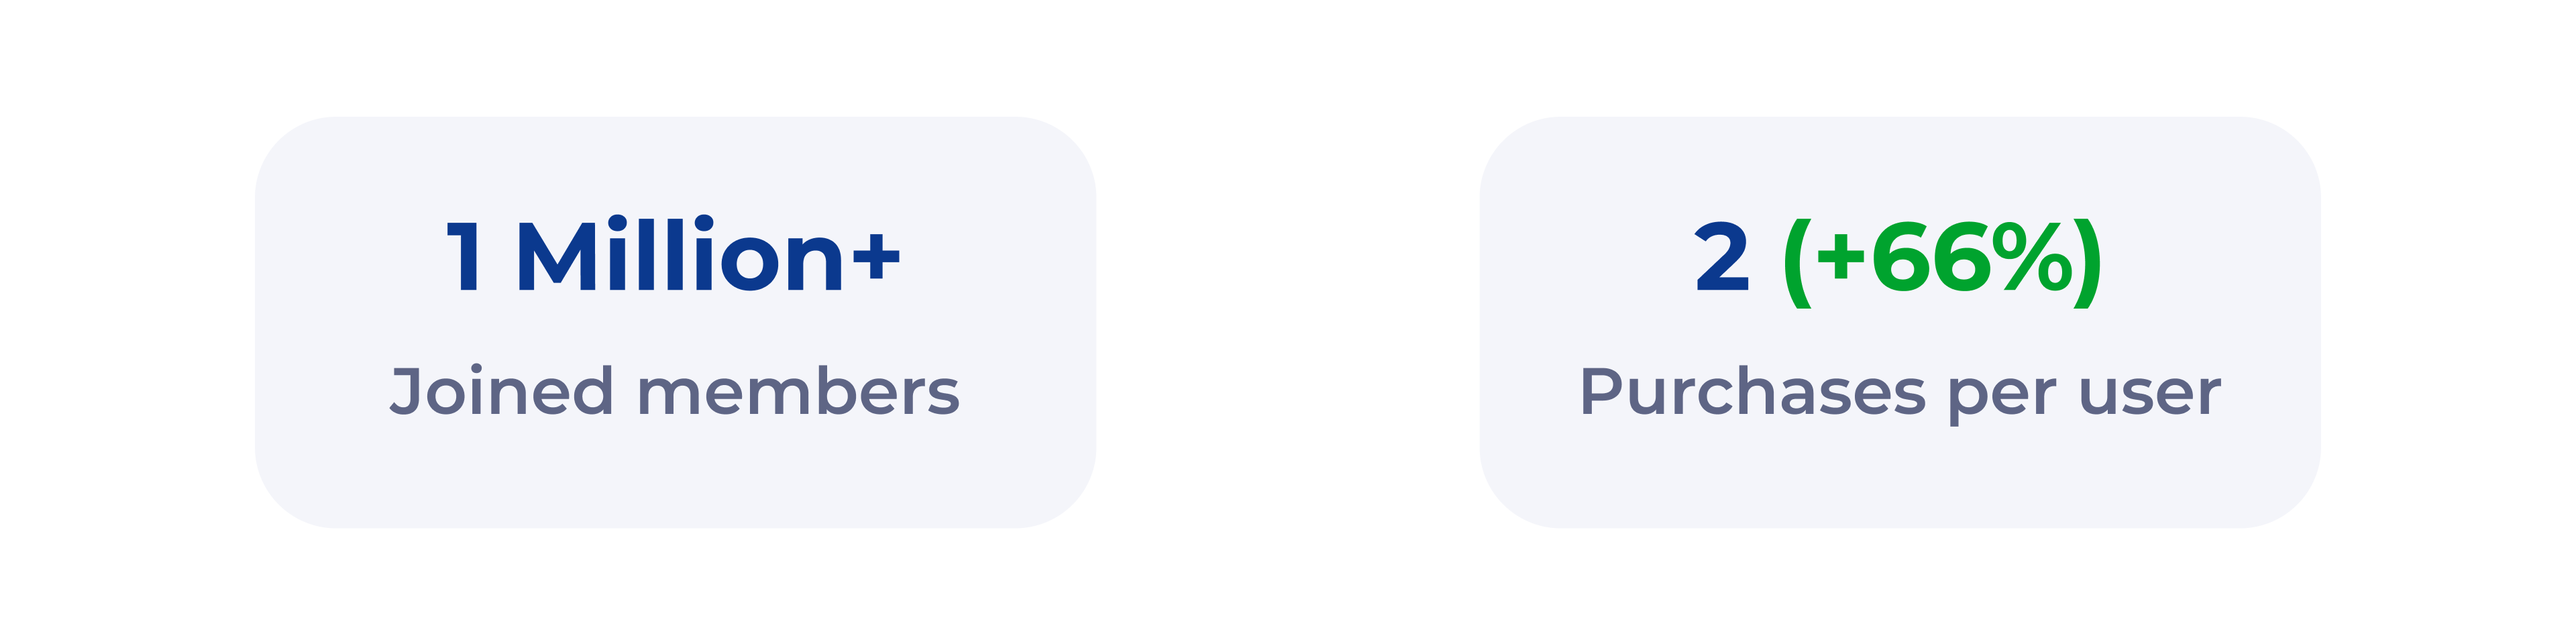
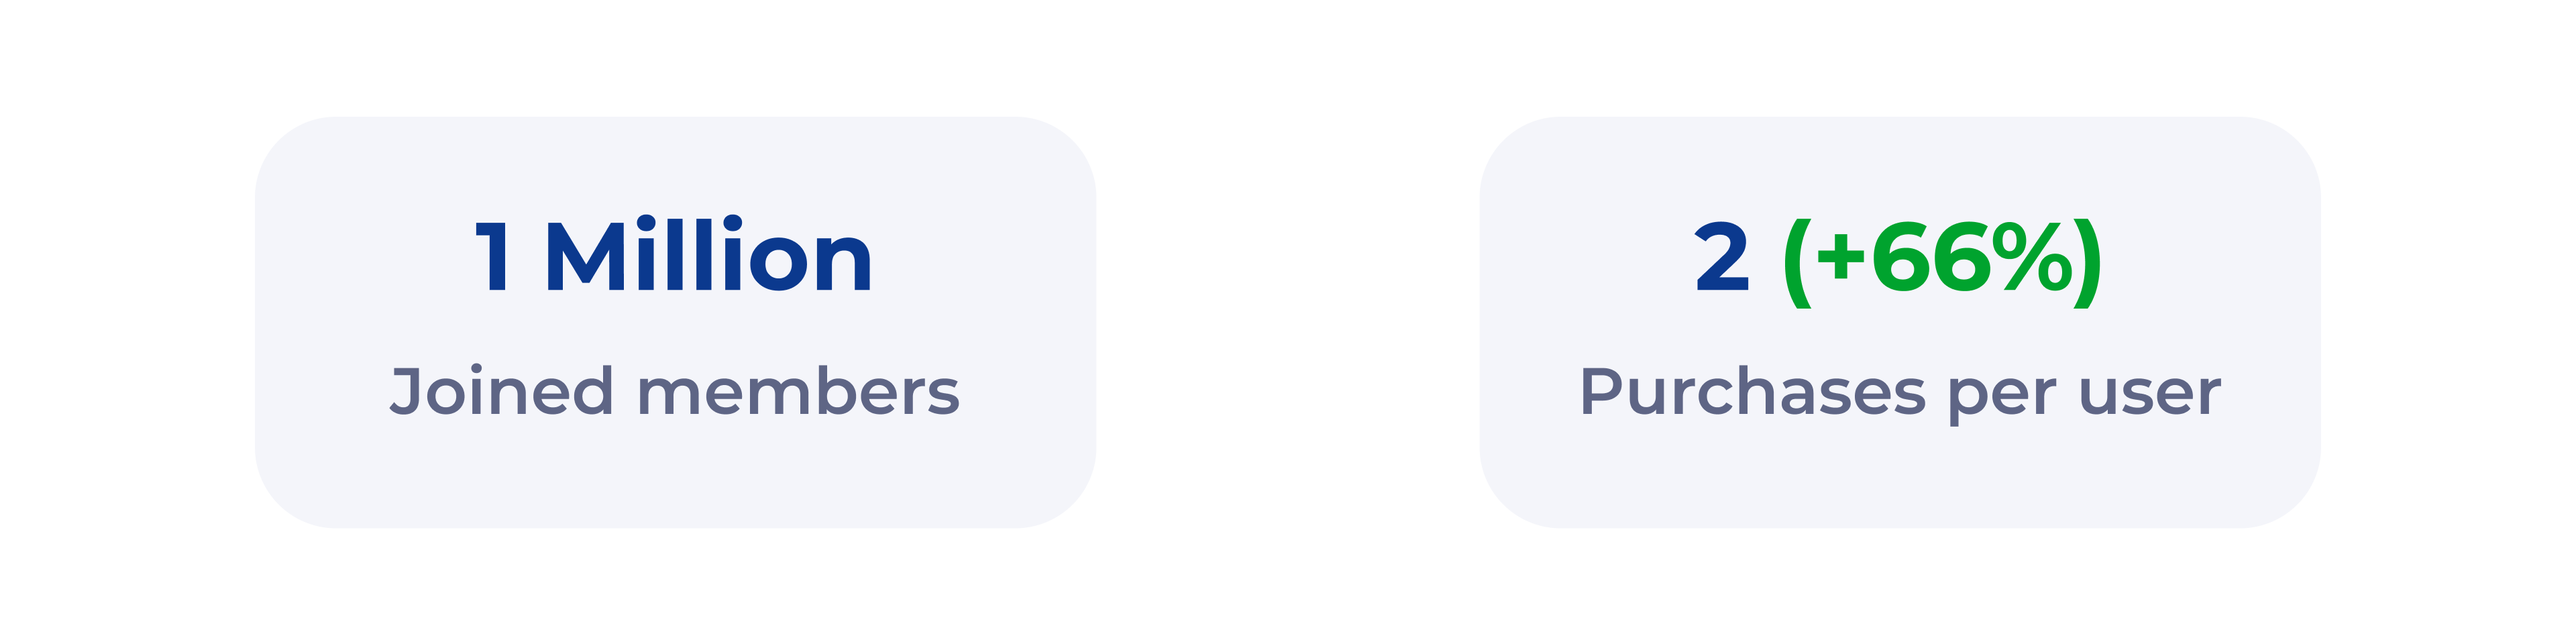
ssc intro

Changed region(s): [[0.1562, 0.3438, 0.3438, 0.4688]]

diff --git a/super_save_club.html b/super_save_club.html
@@ -50,7 +50,7 @@
         <div class="case-study">
             <img class="hero" src="images/ssc-thumb.png"><br>
             <h1 id="summary" class="section">SuperSaveClub</h1>
-            <h2>The MoneySuperMarket reward program which reached 1 million members at the end of 2024</h2>
+            <h2>The MoneySuperMarket reward program which reached 1 million members in 2 years</h2>
             <div  class="info-container">
                 <div class="info-block">
                   <p>💼 MoneySuperMarket</p>
@@ -74,7 +74,7 @@
                 </p>
                 <p>    
                     <strong>📈 Success metrics:</strong><br>
-                    2 purchases per user on average (vs 1 before), with 900k joined members generating 1+ million sales.
+                    2 purchases per user on average (vs 1 before) and with 1 million members reached in 2 years.
                 </p>
                 <p>    
                     <strong>📚 Topics covered:</strong><br>
@@ -152,7 +152,7 @@
                 </div>  
             </section>
 
-            <section class="personalisation">
+            <!-- <section class="personalisation">
                 <h2>Personalisation & Adaptive UI</h2>
                 <h3>How to ideate a smart interface that dynamically evolves with the user</h3>
                 <p>With time, users go through different stages and their needs might change, that's why it's important to offer a tailored experience.<br><br>
@@ -163,7 +163,7 @@
                 <div class="center-box">
                     <img class="thumbnail" src="images/SSC/personalisation.png" width="100%" height="100%" alt="">
                 </div>  
-            </section>
+            </section> -->
                 
           
             <section class="wireframe">
